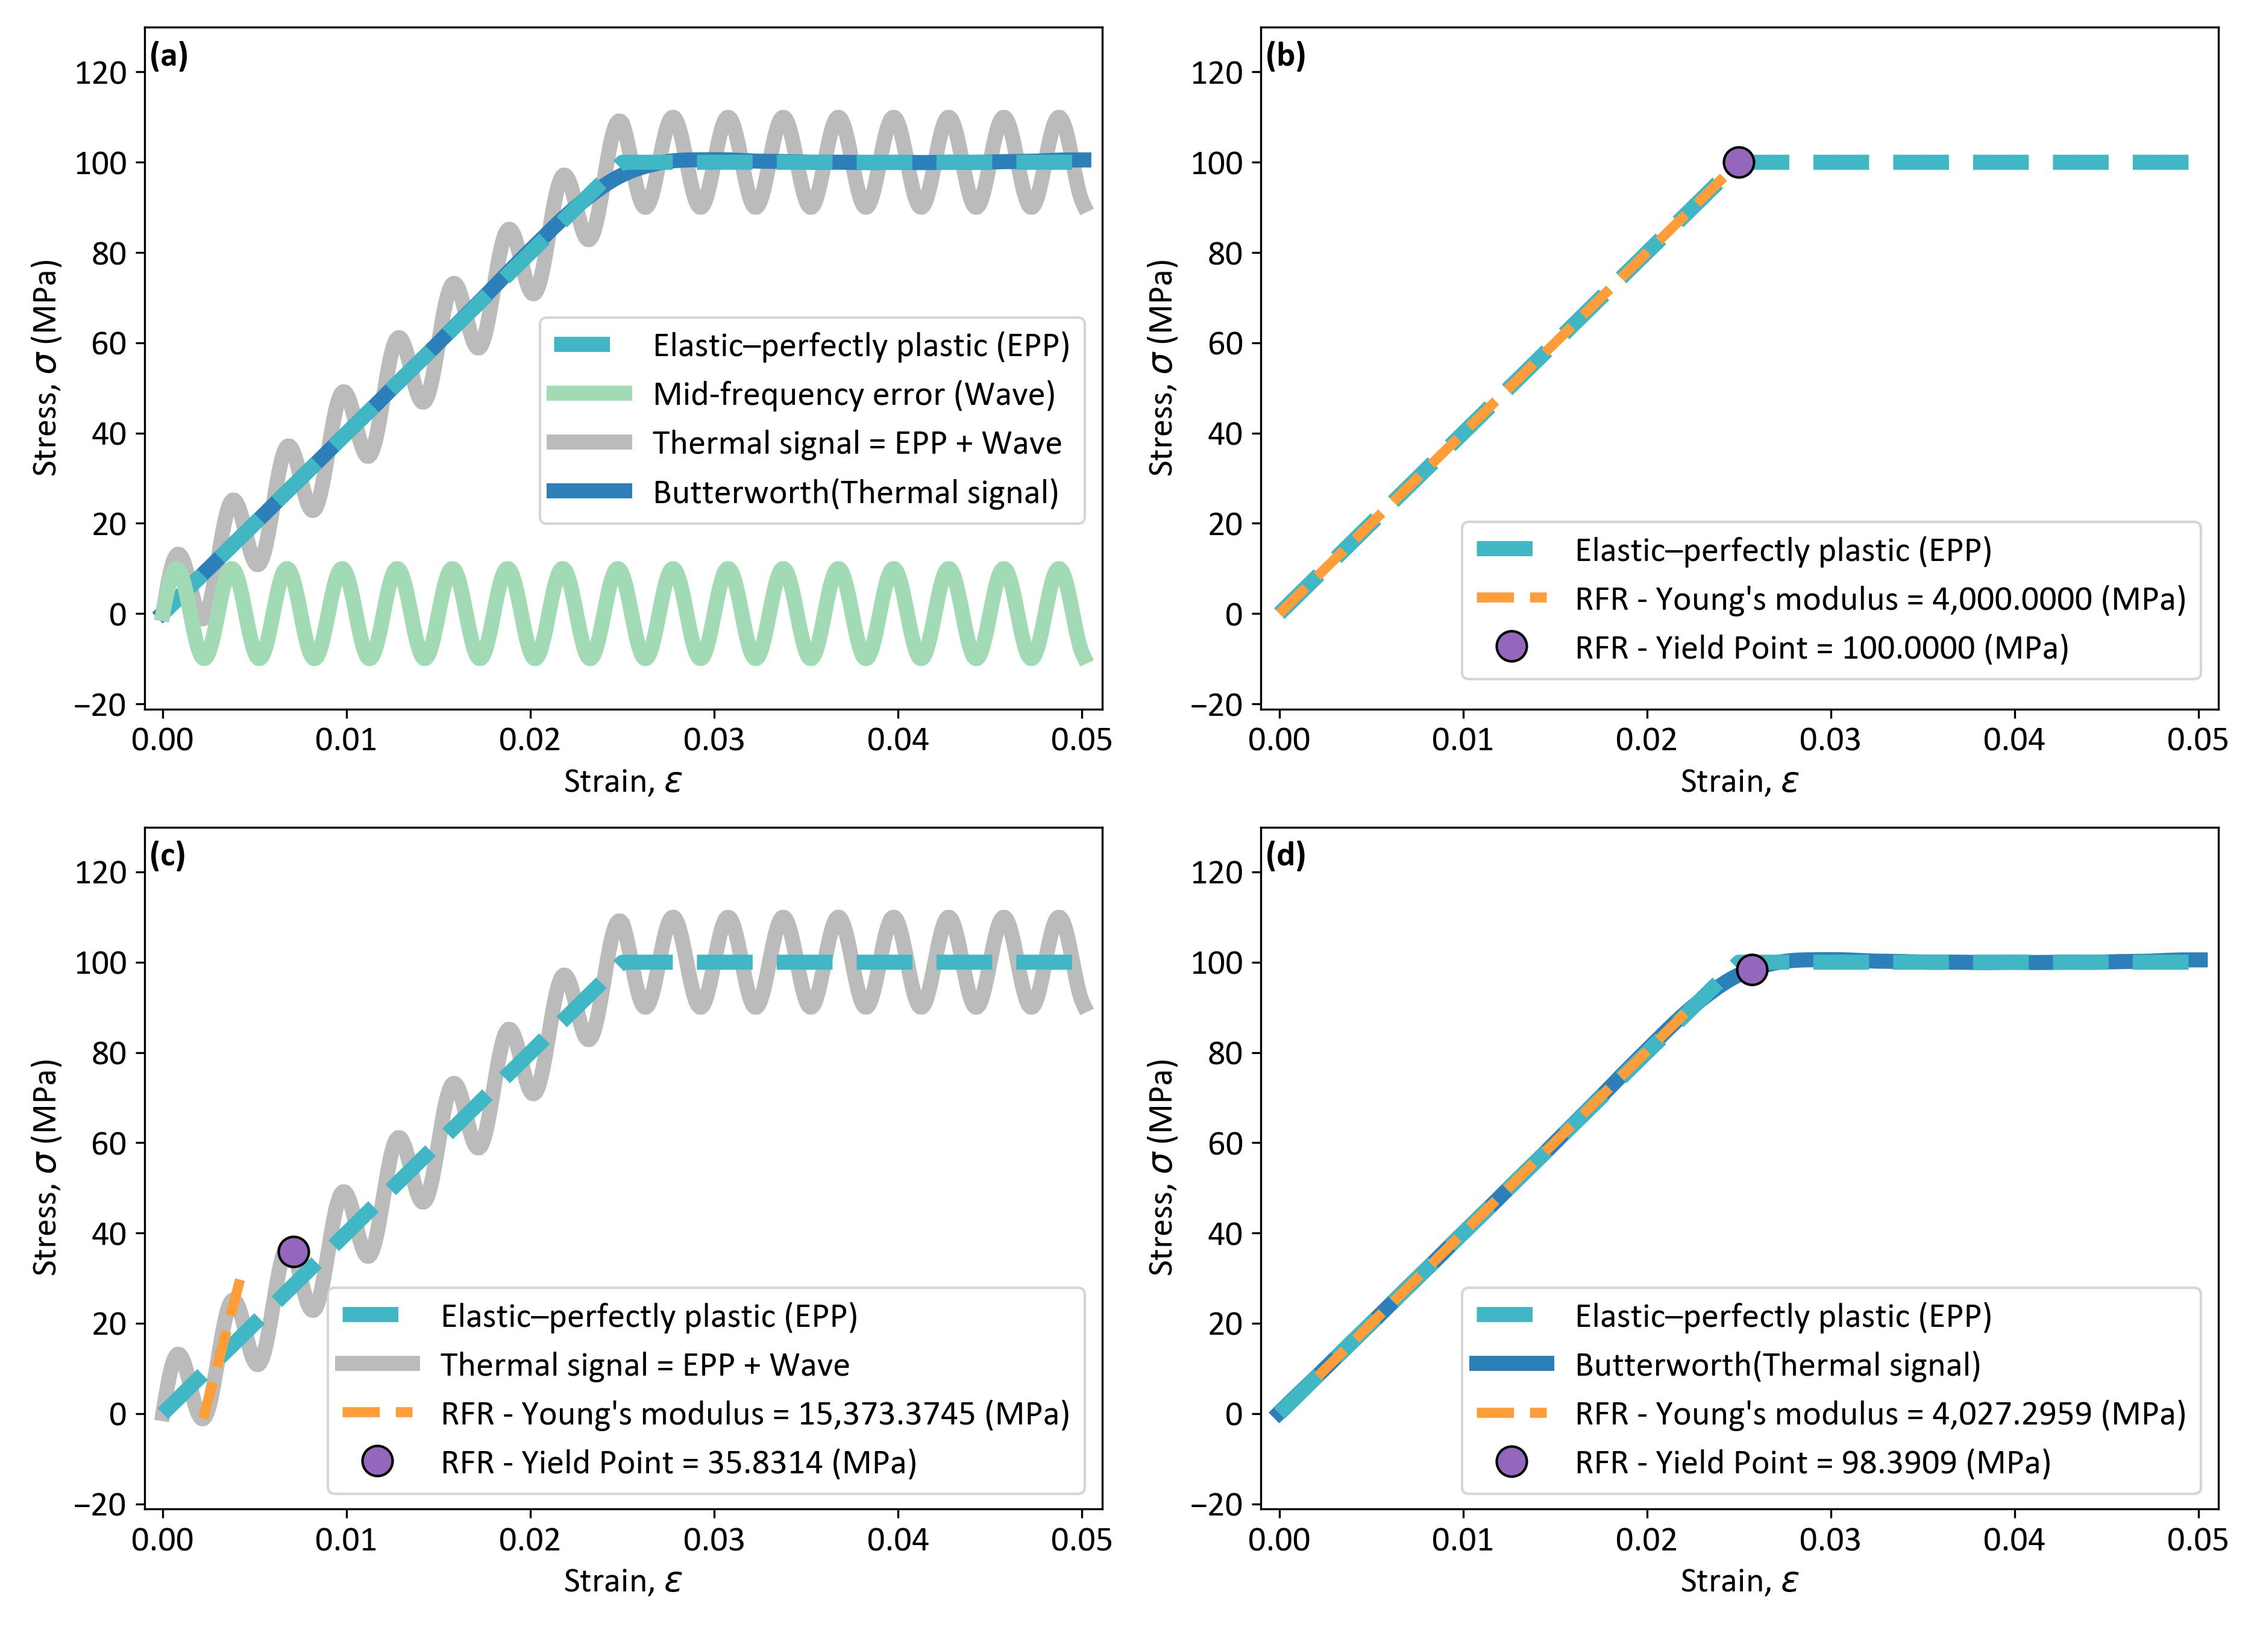
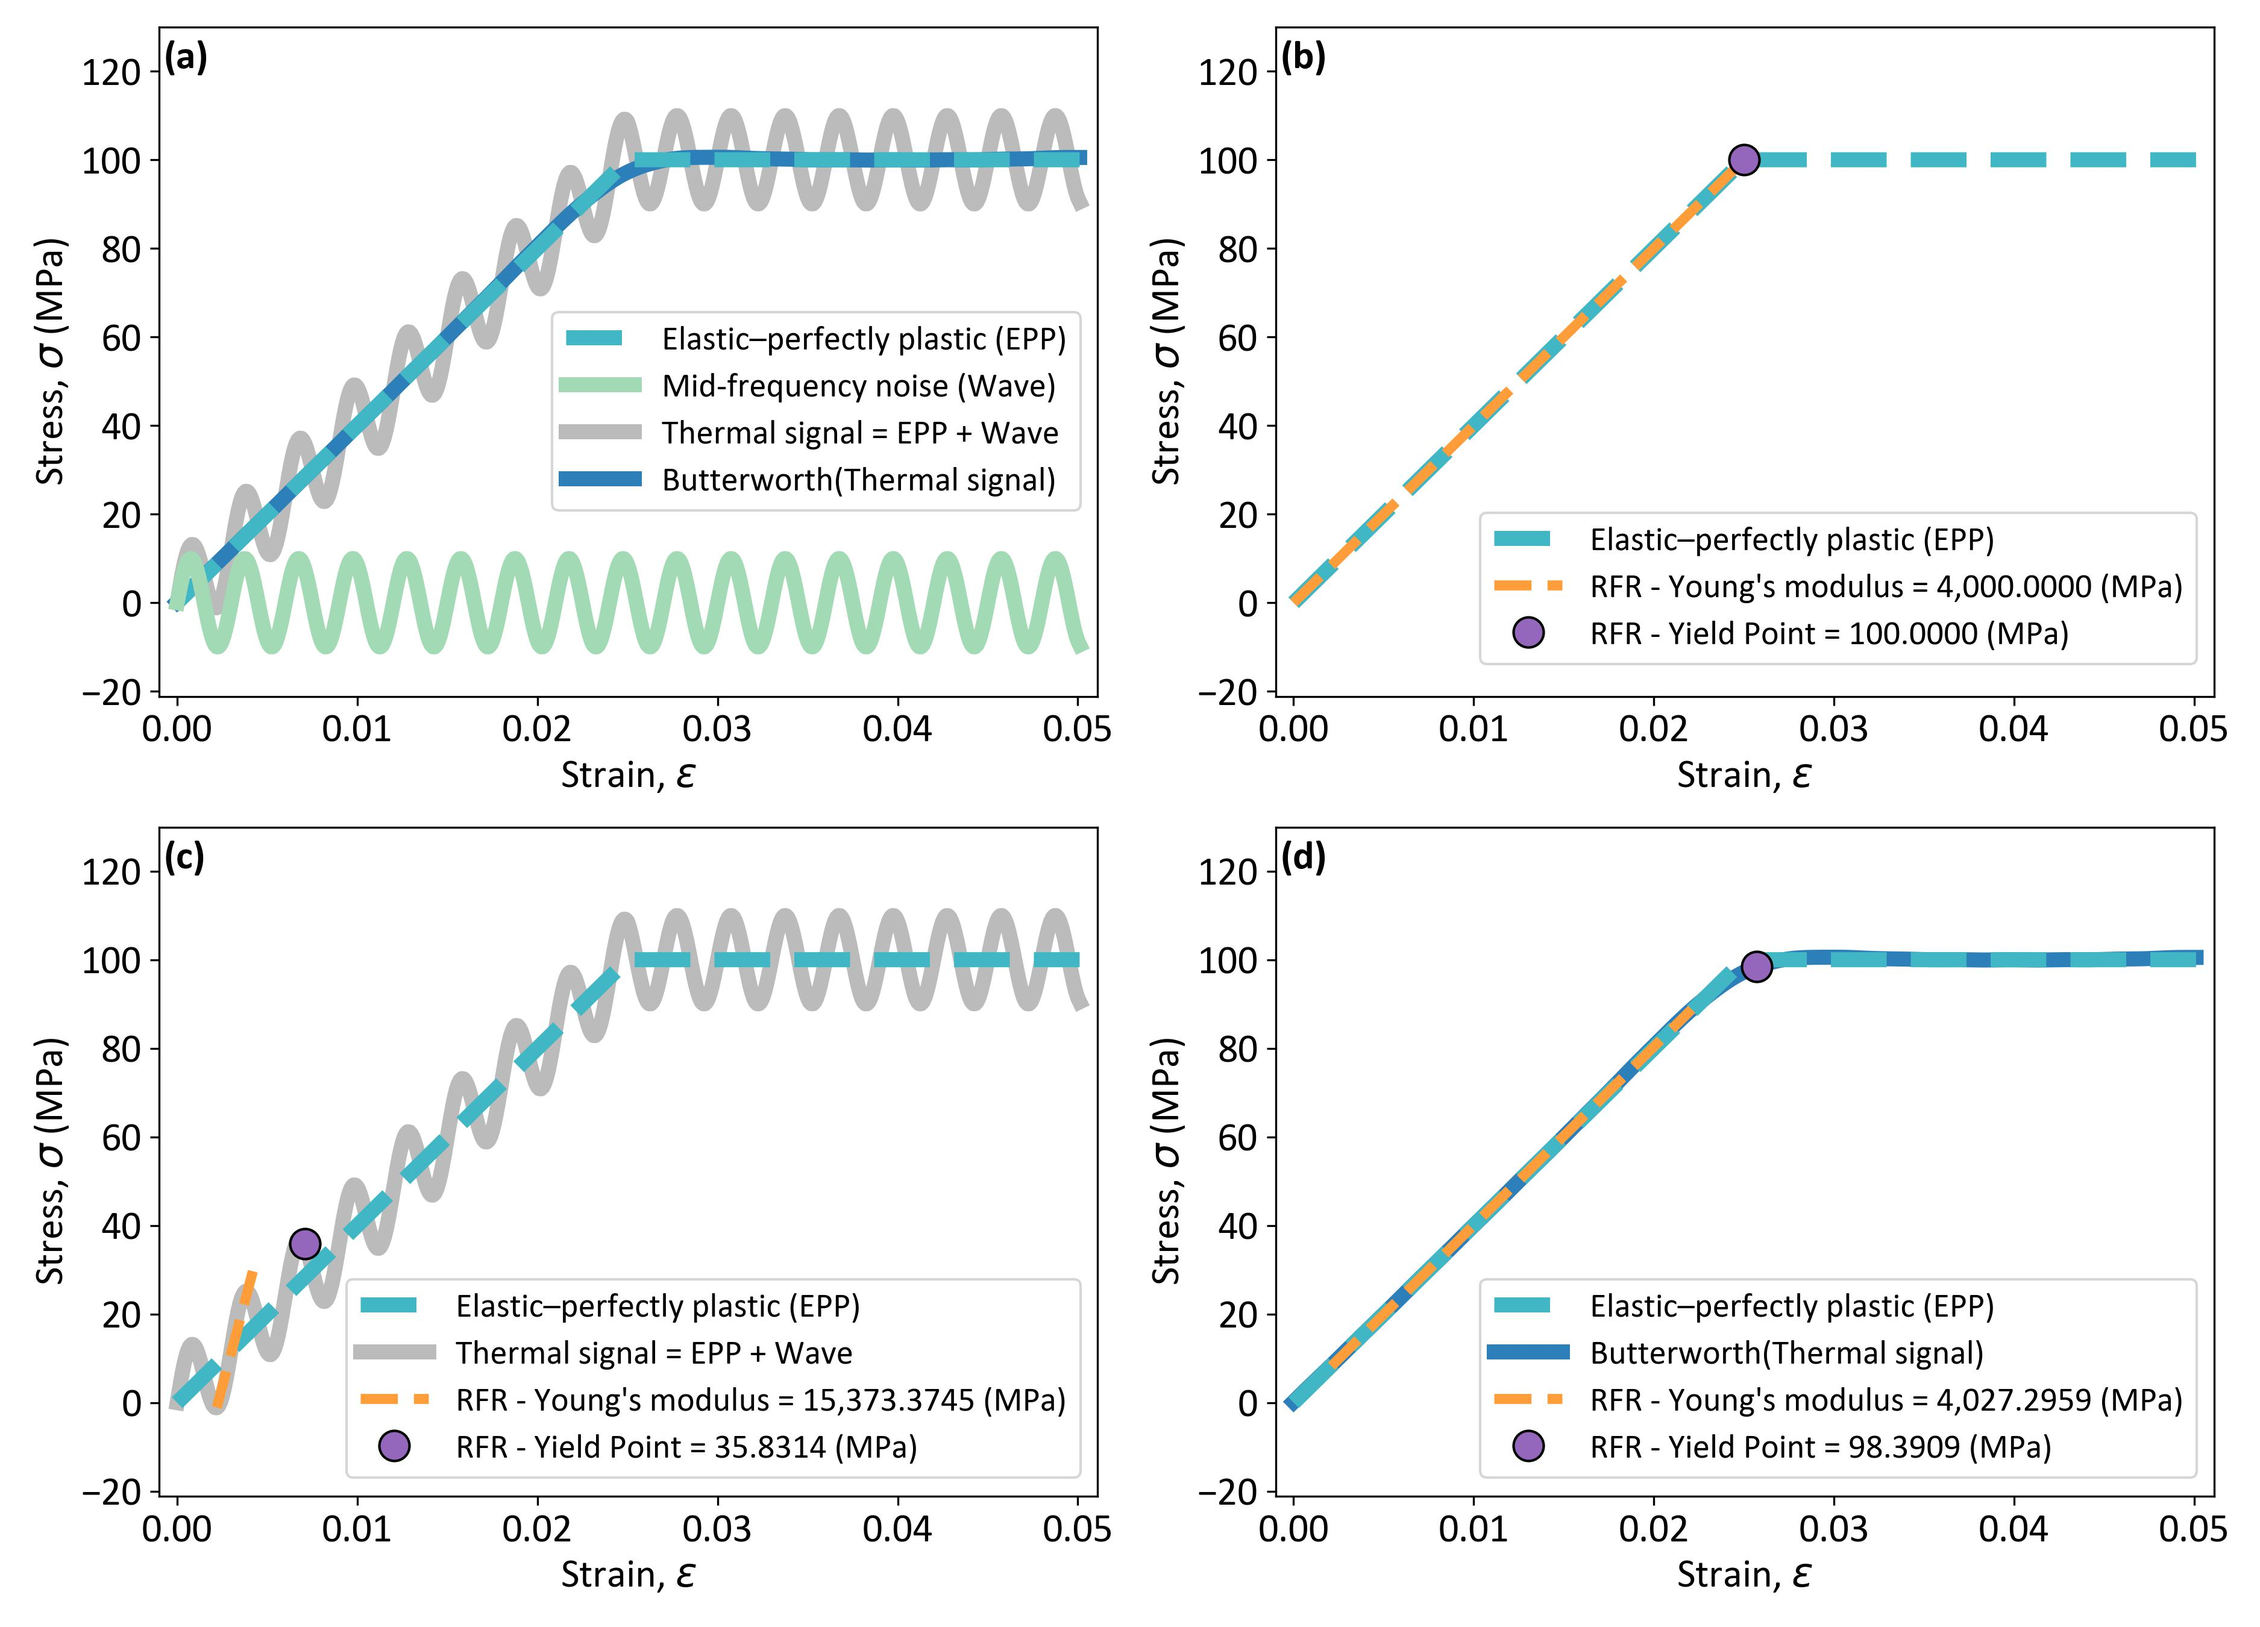
Adjusting Figures

diff --git a/filter_necessity.py b/filter_necessity.py
@@ -315,8 +315,8 @@ ylimits = (min_stress - ydelta, max_stress + ydelta)
 
 # Set fontsize
 plt.close('all')
-fs = 14
-legend_fs_scale = 1.0
+fs = 16
+legend_fs_scale = 0.85
 label_rel_pos = (0.005, 0.98)
 fig, ((ax1, ax2), (ax3, ax4)) = plt.subplots(2, 2, figsize=(12.5, 9))
 
@@ -332,7 +332,7 @@ color_yield   = 'tab:purple'
 
 label_epp     = 'Elastic–perfectly plastic (EPP)'
 label_wave    = 'Wave = {}*sin(2*π*strain/{})'.format(amp, wavelength)
-label_wave    = 'Mid-frequency error (Wave)'
+label_wave    = 'Mid-frequency noise (Wave)'
 label_thermal = 'Thermal signal = EPP + Wave'
 label_filter  = 'Butterworth(Thermal signal)'
 
@@ -394,6 +394,11 @@ ax4.plot(strain, filtered,     '-',  lw=6, zorder=1, color=color_filter, label=l
 
 ax4.plot(youngs_modulus_x, youngs_modulus_y, '--', lw=4, zorder=2, color=color_slope, label="RFR - Young's modulus = {:,.4f} (MPa)".format(youngs_modulus))
 ax4.plot([yp[0]], [yp[1]], 'o', ms=12, zorder=2, mfc=color_yield, markeredgecolor='black', label="RFR - Yield Point = {:,.4f} (MPa)".format(yp[1]))
+
+pe_RFR_E = 100*(youngs_modulus - modulus)/modulus 
+pe_RFR_y = 100*(yp[1] - y_stress)/y_stress
+print('RFR_Butterworth_E pe = {}'.format(pe_RFR_E))
+print('RFR_Butterworth_y pe = {}'.format(pe_RFR_y))
 
 ax4.legend(loc='upper right', bbox_to_anchor=(1, 0.35), fancybox=True, ncol=1, fontsize=legend_fs_scale*fs)
 ax4.set_xlabel(r'Strain, $\epsilon$', fontsize=fs)

diff --git a/temp_study.py b/temp_study.py
@@ -259,6 +259,9 @@ if __name__ == "__main__":
     temp = [300,              150,              75,              38,              19,              10,              5]
     rms  = [data_300K['rms'], data_150K['rms'], data_75K['rms'], data_38K['rms'], data_19K['rms'], data_10K['rms'], data_5K['rms']]
     
+    print('temp =', temp)
+    print('res  =', rms)
+    
     
     #---------------------------------#
     # Plot the results of this method #
